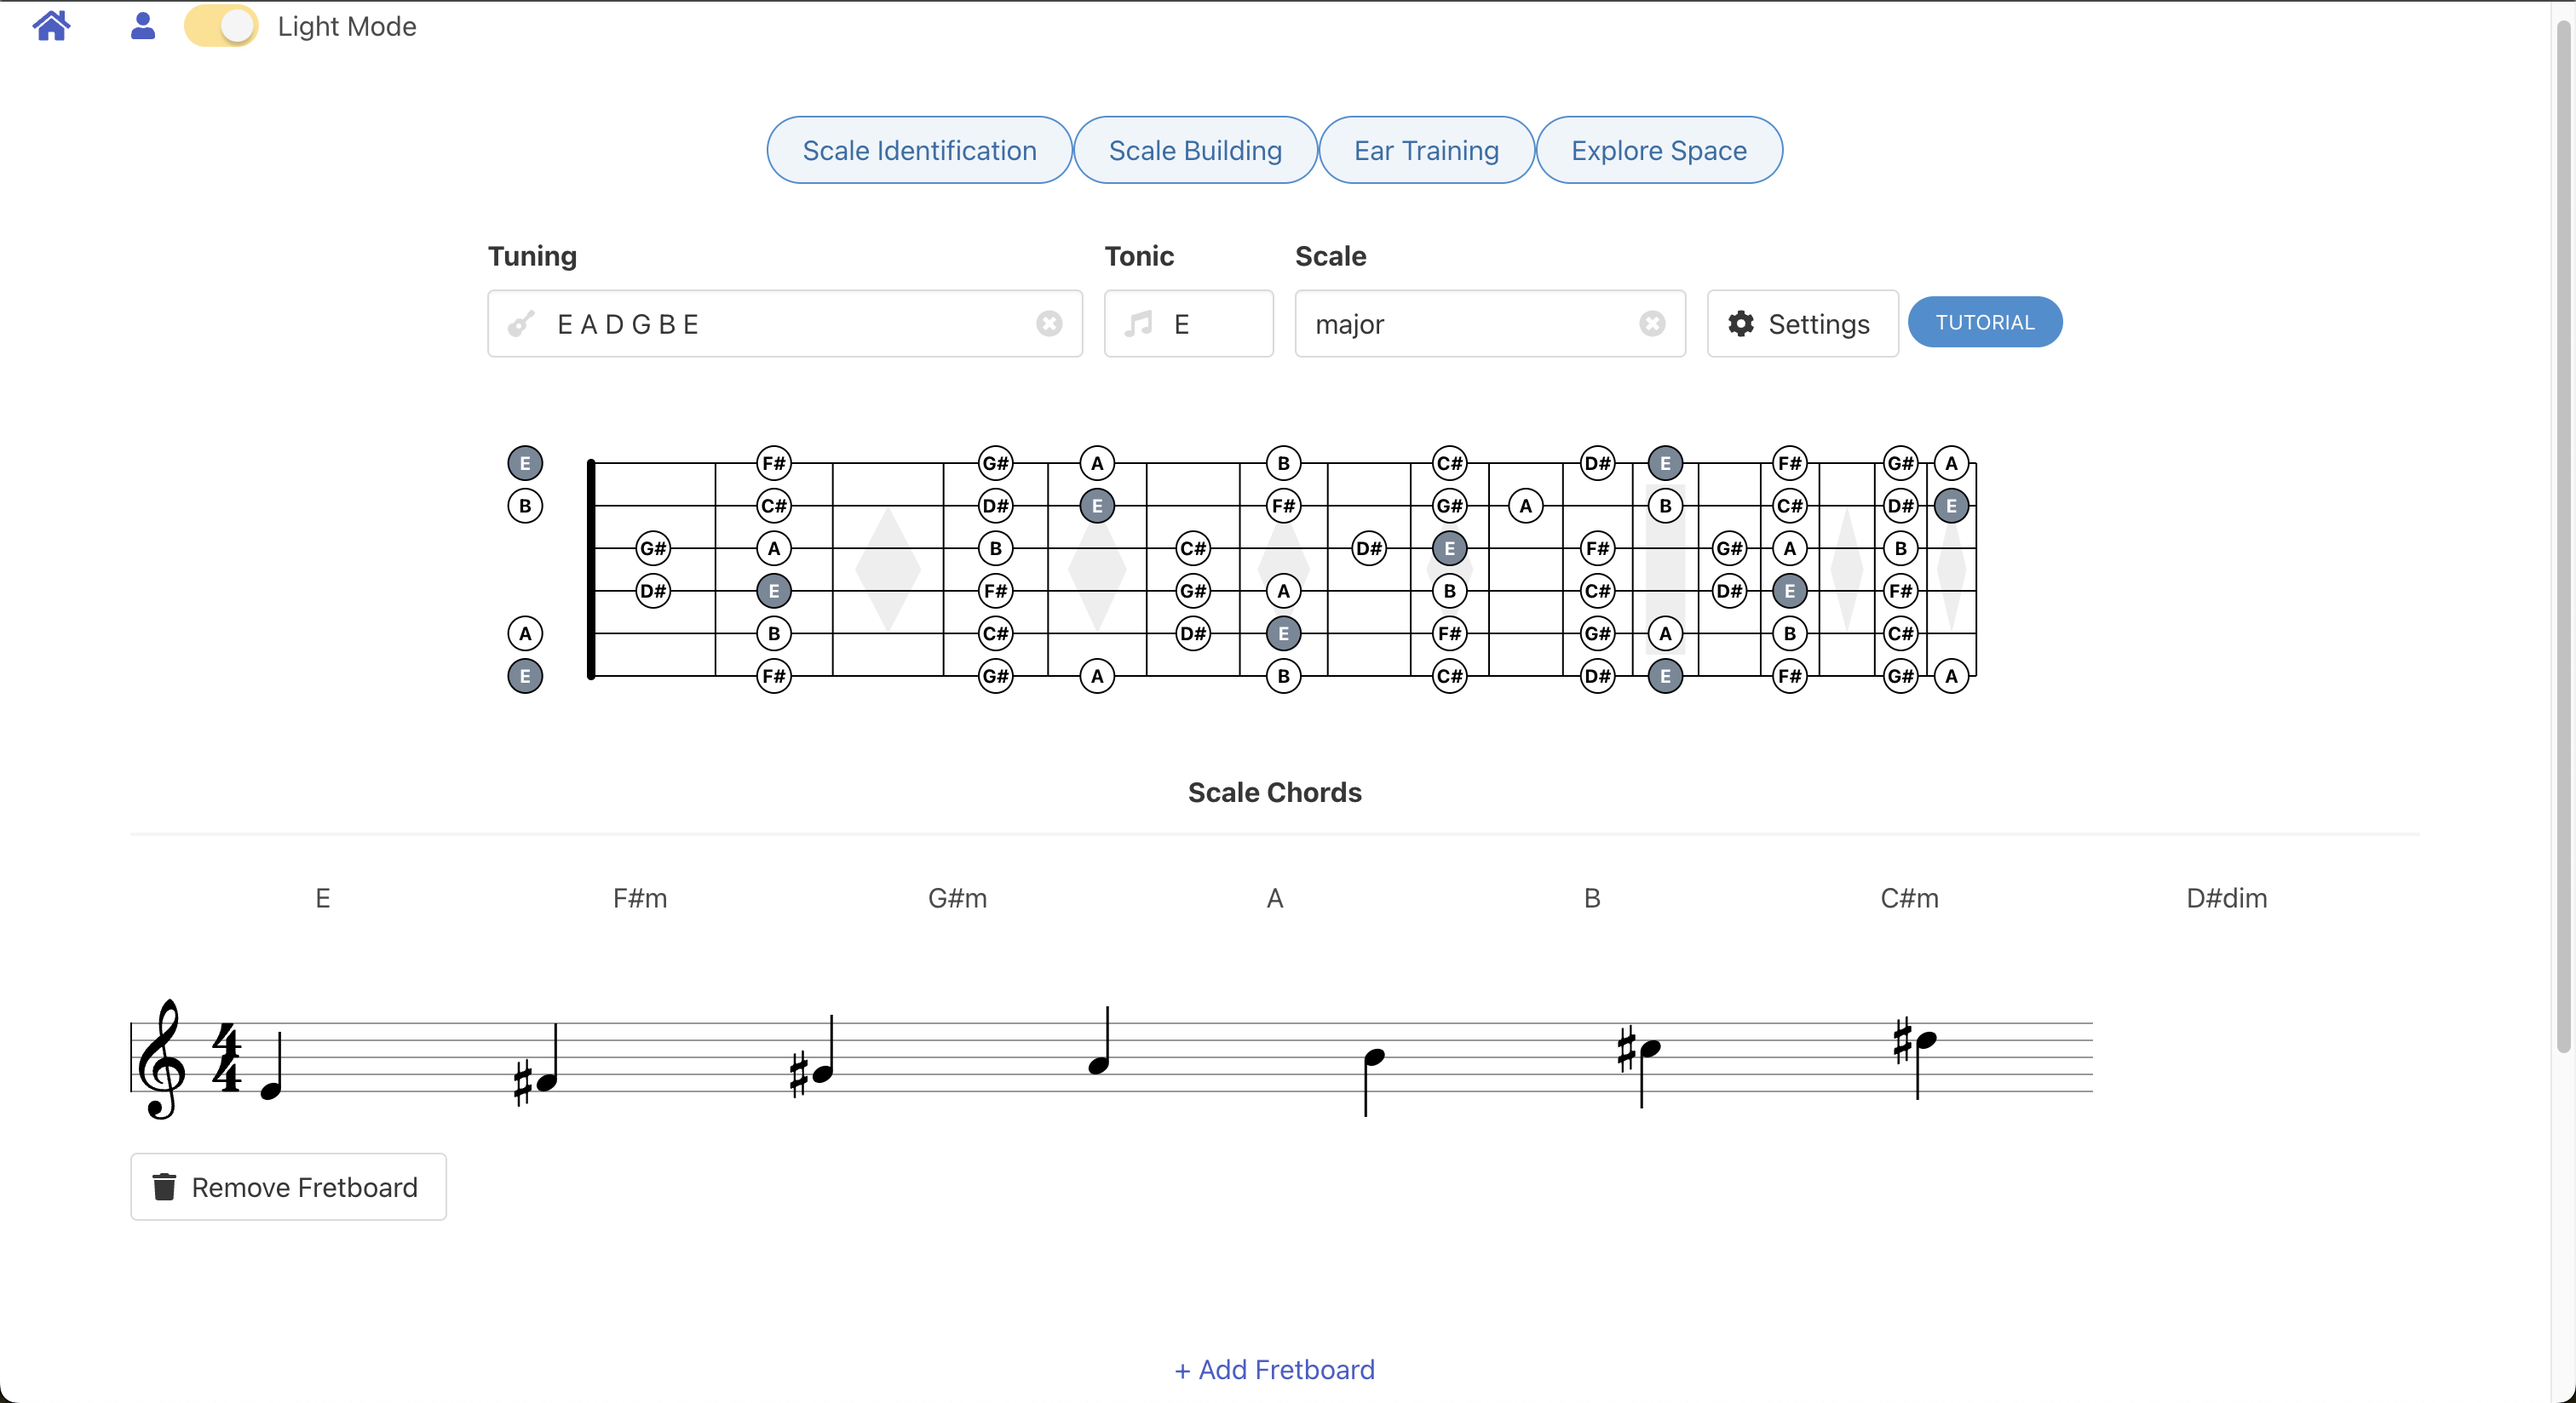
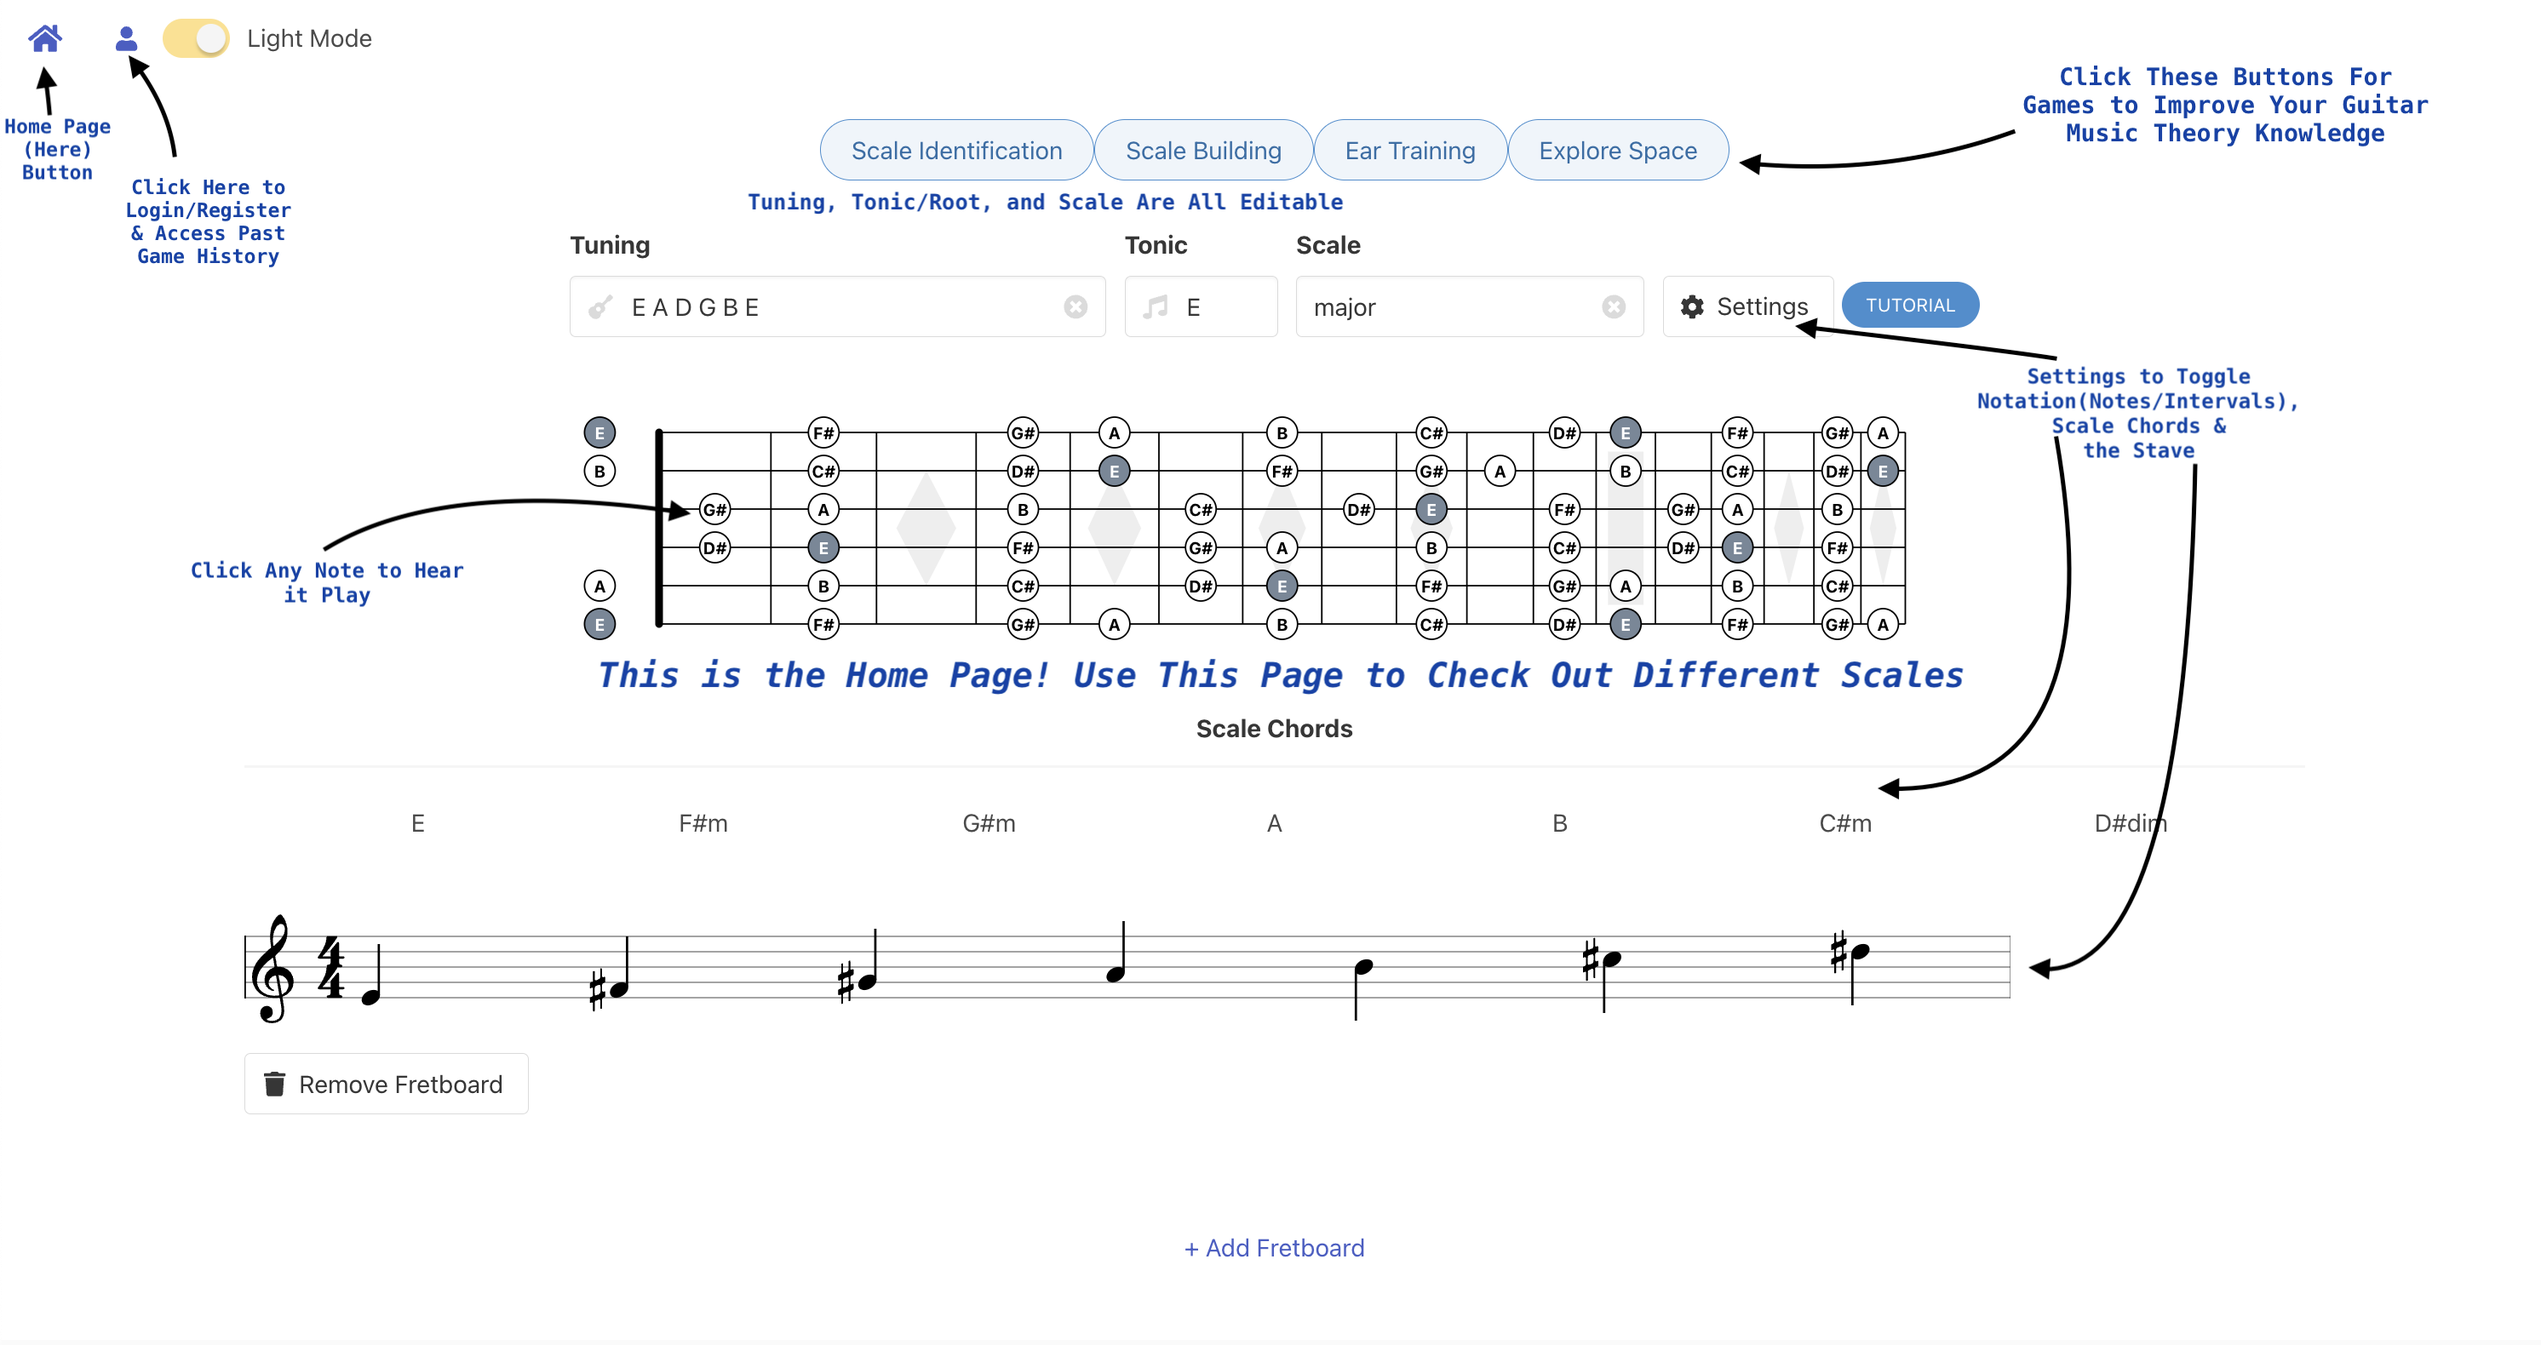
Add Tutorial

diff --git a/src/Views/BuildGame.vue b/src/Views/BuildGame.vue
@@ -7,7 +7,7 @@
         style="margin-top: 20px"
       /> -->
     </div>
-    <h1 v-if="ShowBegin" class="has-text-centered">Build the Scale Given</h1>
+    <h1 v-if="!StartGame" class="has-text-centered">Build the Scale Given</h1>
     <div class="card-image" style="text-align: center; overflow-x: auto">
       <BuildFretboard
         :tuning="tuning"
@@ -26,7 +26,7 @@
         class="button"
         slot="trigger"
         icon-left="cog"
-        style="margin-left: 40px"
+        style="margin-left: 4px"
         >Settings</b-button
       >
       <b-dropdown-item aria-role="menu-item" :focusable="false" paddingless>
@@ -146,6 +146,21 @@
           outlined
         />
       </div>
+      <b-button
+        style="margin-top: 10px"
+        type="is-info"
+        size="is-small"
+        rounded
+        @click="showTutorial = true"
+        >TUTORIAL</b-button
+      >
+      <b-modal v-model="showTutorial">
+        <img
+          src="./build.png"
+          trap-focus
+          style="max-width: 160%; max-height: 160%"
+        />
+      </b-modal>
     </section>
     <!-- <Chords
       v-if="this.ShowChords == 'true'"
@@ -206,6 +221,7 @@ export default {
       ShowSettings: false,
       StartGame: false,
       ShowBegin: true,
+      showTutorial: false,
       tonicCount: 0,
       questionCount: 0,
       correctCount: 0,
@@ -347,10 +363,10 @@ export default {
             randInt < 0.5 ? "minor pentatonic" : "major pentatonic";
           return;
         case "Medium":
-          this.scale.type = randInt < 0.5 ? "minor" : "major";
+          this.scale.type = randInt < 0.5 ? "natural minor" : "major";
           return;
         case "Hard":
-          this.scale.type = "harmonic minor";
+          this.scale.type = randInt < 0.5 ? "harmonic minor" : "melodic minor";
       }
     },
     //this function returns a random element of an array

diff --git a/src/Views/IdentifyGame.vue b/src/Views/IdentifyGame.vue
@@ -26,6 +26,21 @@
       class="has-text-centered"
       style="display: flex; flex-direction: column; align-items: center"
     >
+      <b-button
+        style="margin-left: 5px; margin-top: -45px; margin-bottom: 20px"
+        type="is-info"
+        size="is-small"
+        rounded
+        @click="showTutorial = true"
+        >TUTORIAL</b-button
+      >
+      <b-modal v-model="showTutorial">
+        <img
+          src="./identify.png"
+          trap-focus
+          style="max-width: 160%; max-height: 160%"
+        />
+      </b-modal>
       <!-- Begin Button -->
       <b-button
         v-if="ShowBegin"
@@ -181,6 +196,7 @@ export default {
       ShowBegin: true,
       playerTonic: null,
       playerScale: null,
+      showTutorial: false,
       questionCount: 5,
       userScore: 0,
       quizQuestions: [],
@@ -281,7 +297,7 @@ export default {
           this.scale.type = randInt < 0.5 ? "minor" : "major";
           return;
         case "Hard":
-          this.scale.type = "harmonic minor";
+          this.scale.type = randInt < 0.5 ? "harmonic minor" : "melodic minor";
       }
     },
     showSettings() {
@@ -366,7 +382,7 @@ export default {
       playNote(note.key);
       // console.log("clickednotes " + JSON.stringify(this.clickedNotes, null, 2));
     },
-
+    // https://stackoverflow.com/questions/51732600/how-to-save-the-simple-data-in-the-firebase-using-vue-js
     addToCollection() {
       addDoc(collection(db, "IdentifyQuizzes"), {
         userID: firebase.auth().currentUser.uid,

diff --git a/src/Views/EarTraining.vue b/src/Views/EarTraining.vue
@@ -1,6 +1,6 @@
 <template>
   <div>
-    <h1 v-if="ShowBegin" class="has-text-centered" style="margin-top: 0px">
+    <h1 v-if="!StartGame" class="has-text-centered" style="margin-top: 0px">
       Ear Training Games
     </h1>
     <h1
@@ -32,6 +32,21 @@
       class="has-text-centered"
       style="display: flex; flex-direction: column; align-items: center"
     >
+      <b-button
+        style="margin-top: -10px; margin-bottom: 15px"
+        type="is-info"
+        size="is-small"
+        rounded
+        @click="showTutorial = true"
+        >TUTORIAL</b-button
+      >
+      <b-modal v-model="showTutorial">
+        <img
+          src="./Ear.png"
+          trap-focus
+          style="max-width: 160%; max-height: 160%"
+        />
+      </b-modal>
       <!-- Begin Button -->
       <b-button
         v-if="ShowBegin"
@@ -293,6 +308,7 @@ export default {
       ShowBegin: true,
       ShowSettings: false,
       StartGame: false,
+      showTutorial: false,
       chordAns: null,
       intervalNotes: [],
       previousIntervals: [],

diff --git a/src/Views/ExploreSpace.vue b/src/Views/ExploreSpace.vue
@@ -138,6 +138,21 @@
                 </b-dropdown-item>
               </b-dropdown>
             </b-field>
+            <b-button
+              style="margin-top: 36px"
+              type="is-info"
+              size="is-small"
+              rounded
+              @click="showTutorial = true"
+              >TUTORIAL</b-button
+            >
+            <b-modal v-model="showTutorial">
+              <img
+                src="./explore.png"
+                trap-focus
+                style="max-width: 160%; max-height: 160%"
+              />
+            </b-modal>
           </b-field>
         </div>
       </div>
@@ -203,6 +218,7 @@ export default {
       ShowMusicSheet: "true",
       ShowChords: "true",
       notation: "sharp",
+      showTutorial: false,
       displayChords: false,
       displayNotes: false,
       clickedKeys: [],

diff --git a/src/Views/AccountPage.vue b/src/Views/AccountPage.vue
@@ -1,3 +1,4 @@
+<!-- https://www.youtube.com/watch?v=skaPoOhp4OI -->
 <template>
   <section>
     <!-- Navigation Buttons -->
@@ -310,6 +311,8 @@ export default {
       // console.log("identifyquestions ", this.identifyQuestions);
       console.log("userID", firebase.auth().currentUser.uid);
     },
+    // https://stackoverflow.com/questions/70460935/read-collection-in-firebase-from-vue-js
+    // https://stackoverflow.com/questions/47065982/how-to-query-one-field-then-order-by-another-one-in-firebase-cloud-firestore
     getIdentityData(collectionName) {
       let currentQuery = query(
         collection(db, collectionName),

diff --git a/src/main.js b/src/main.js
@@ -180,7 +180,7 @@ const router = new VueRouter({
   mode: "history",
   routes,
 });
-
+// https://stackoverflow.com/questions/63741877/how-to-detect-the-users-firebase-authentication-login-status-in-a-vue-js-projec
 router.beforeEach((to, from, next) => {
   if (to.matched.some((record) => record.meta.authRequired)) {
     if (firebase.auth().currentUser) {

diff --git a/src/utils.js b/src/utils.js
@@ -36,7 +36,7 @@ export function toNameInterval(x, scaleTonic) {
   }
   return chromaticScale.intervals[index];
 }
-
+// https://stackoverflow.com/questions/68268236/how-to-check-if-a-character-is-present-in-a-string-array
 export function toName(x, notation, scaleNotes) {
   if (notation == "Intervals") {
     return toNameInterval(x);

diff --git a/src/guitarsounds.js b/src/guitarsounds.js
@@ -1,5 +1,9 @@
 // import {Sampler, start, Tone} from 'tone';
 /* eslint-disable */
+// https://tonejs.github.io
+
+// https://github.com/nbrosowsky/tonejs-instruments?tab=readme-ov-file
+// Sounds from above
 import { Sampler, start, Transport, Sequence }from 'tone';
 import { Chord } from 'tonal';
 
